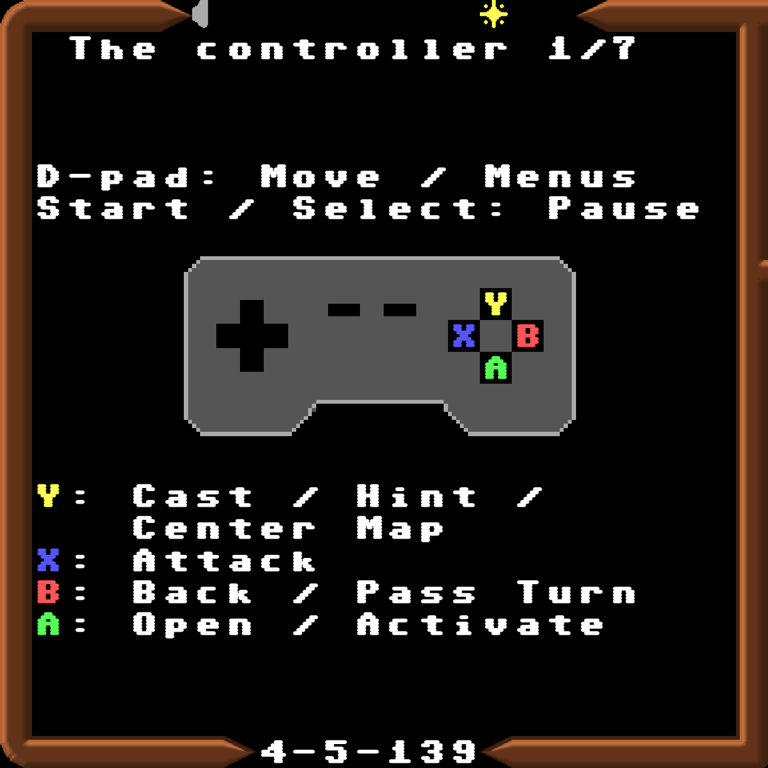
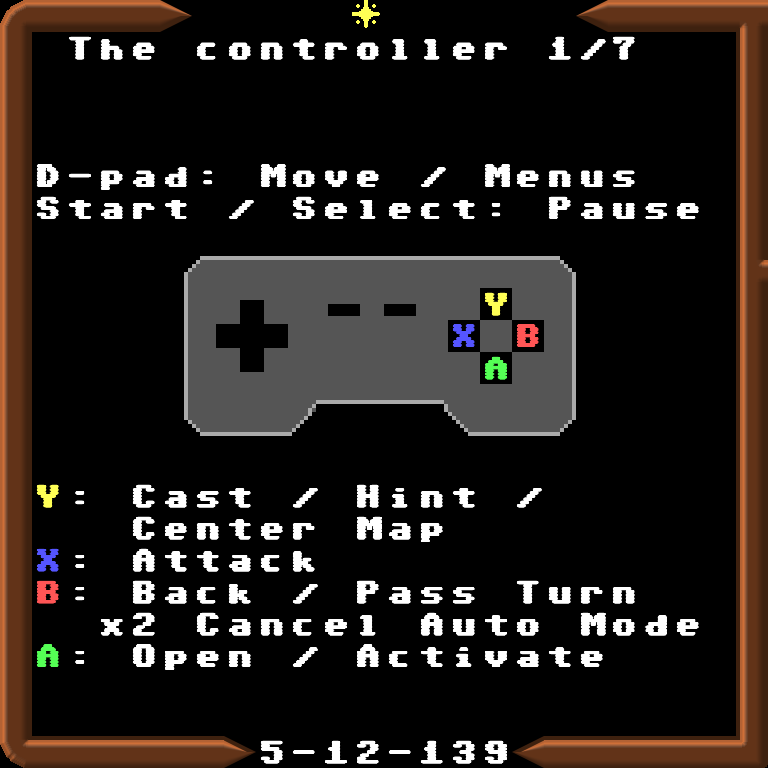
Auto combat's notes shortened to fit; the controller help gets B x2
The Pause menu's notes for Allies and All, too long for the list's foot, now
read "Allies: Play the Avatar only. Press Pass twice to cancel." and "All:
Game plays everyone. Press Pass twice to cancel.", three rows each. The
controller page of Help says "x2 Cancel Auto Mode" under B: Back / Pass Turn.

The face buttons on that page had lost their letters in the Modern look: the
corners rounded after each letter changed its cell's pixels, and the lettering
lets go of a cell drawn over. The corners are left square there. The README's
picture of the page is taken again.

diff --git a/web/src/game/help.ts b/web/src/game/help.ts
@@ -82,12 +82,14 @@ const PICTURE: Page = {
     d.fill(x0 + 74, top + 36, x0 + 81, top + 38);
     d.fill(x0 + 88, top + 36, x0 + 95, top + 38);
     // Each face button a black key, its letter in its colour, its corners rounded off - after the letter, which paints
-    // its whole cell.
+    // its whole cell. Not in the Standard look: its lettering is held to the cell's pixels as drawn (framebuffer.ts
+    // lettersShown), and a corner changed after lets the letter go - the keys were left blank.
     for (const [letter, colour, x, y] of FACE) {
       const [bx, by] = [x0 + x * 8, y0 + y * 8];
       d.pen = Colour.black;
       d.fill(bx, by, bx + 7, by + 7);
       put(x, y, letter, colour);
+      if (g.options.tileSet === 'standard') continue;
       d.pen = Colour.darkGray;
       for (const [cx, cy] of [
         [bx, by],
@@ -106,12 +108,14 @@ const PICTURE: Page = {
       [14, 'Y', ': Cast / Hint /'],
       [16, 'X', ': Attack'],
       [17, 'B', ': Back / Pass Turn'],
-      [18, 'A', ': Open / Activate'],
+      [19, 'A', ': Open / Activate'],
     ] as const) {
       put(0, y, letter, colourOf(letter));
       put(1, y, does);
     }
     put(3, 15, 'Center Map');
+    // B twice, while auto combat plays a turn, turns it off (autocombat.ts): a column in from Center Map, to fit.
+    put(2, 18, 'x2 Cancel Auto Mode');
   },
 };
 

diff --git a/web/tests/pausemenu.test.ts b/web/tests/pausemenu.test.ts
@@ -91,6 +91,32 @@ describe('the Pause menu', () => {
     expect(g.awaitingCommand).toBe(false);
   });
 
+  it("says what each of Auto combat's choices does at the list's foot, whole", async () => {
+    const notes = {
+      off: 'Off: you play every turn of the party.',
+      allies: 'Allies: Play the Avatar only. Press Pass twice to cancel.',
+      all: 'All: Game plays everyone. Press Pass twice to cancel.',
+    } as const;
+    for (const mode of ['off', 'allies', 'all'] as const) {
+      const { g, p } = newGame();
+      journeyOnward(g);
+      g.options.input = 'controller';
+      g.options.autoCombat = mode;
+      let foot = '';
+      p.next = () => {
+        const m = g.menuShown!;
+        if (m.at !== 1) return K.Down; // the bar on Auto combat
+        foot = p.rows
+          .slice(14, 24)
+          .map((r) => r.slice(0, 24).join('').trim())
+          .join(' ');
+        return Pad.B;
+      };
+      await pauseMenu(g);
+      expect(foot.replace(/\s+/g, ' '), mode).toContain(notes[mode]);
+    }
+  });
+
   it('holds Auto combat, turned on and off in place; the command menu no longer offers it, Pass, Pause or saving', async () => {
     const { g, p } = newGame();
     g.options.input = 'controller';

diff --git a/web/src/game/menu.ts b/web/src/game/menu.ts
@@ -1408,8 +1408,8 @@ export async function commandMenu(g: Game): Promise<number> {
 const AUTO_COMBAT_NAMES: Record<AutoCombat, string> = { off: 'Off', allies: 'Allies', all: 'All' };
 const AUTO_COMBAT_NOTES: Record<AutoCombat, string> = {
   off: 'Off: you play every turn of the party.',
-  allies: 'Allies: you play the Avatar, the game plays the rest of the party, summoned and charmed creatures too.',
-  all: 'All: the game plays the whole party until a key is pressed.',
+  allies: 'Allies: Play the Avatar only. Press Pass twice to cancel.',
+  all: 'All: Game plays everyone. Press Pass twice to cancel.',
 };
 
 /**

diff --git a/web/tests/help.test.ts b/web/tests/help.test.ts
@@ -139,6 +139,7 @@ describe("the Help's controller", () => {
       'X: Attack',
       'Y: Cast / Hint /',
       'Center Map',
+      'x2 Cancel Auto Mode',
       'Start / Select: Pause',
     ])
       expect(text).toContain(line);
